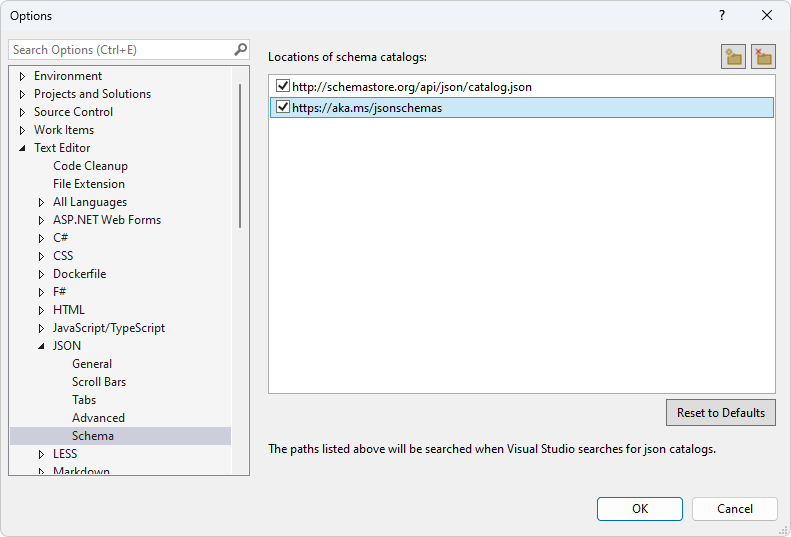
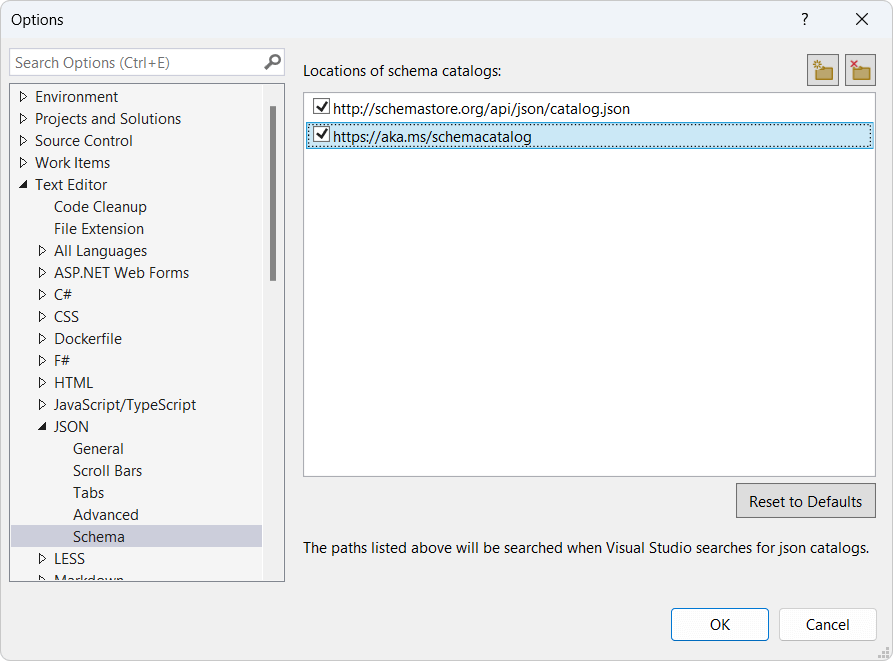
Updated screenshots

diff --git a/index.html b/index.html
@@ -21,7 +21,7 @@
             padding: 10px;
             max-width: 900px;
             margin: 0 auto;
-            line-height: 1.5;
+            padding-bottom: 5em;
         }
 
         figure {
@@ -54,7 +54,7 @@
     <main>
         <section>
             <h2>Consume the JSON schemas</h2>
-            <p>In Visual Studio, add the URL <a href="catalog.json">https://aka.ms/jsonschemas</a>
+            <p>In Visual Studio, add the URL <a href="catalog.json">https://aka.ms/schemacatalog</a>
             in <strong>Tools -> Options </strong>as shown below.</p>
 
             <figure>
